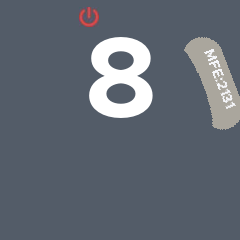
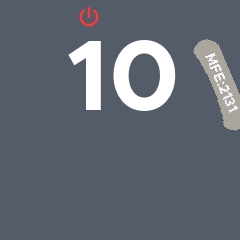
dsa

Changed region(s): [[0.2917, 0.1458, 0.7292, 0.4958], [0.7583, 0.1458, 1.0, 0.5542], [0.9917, 0.3792, 1.0, 0.4083]]

diff --git a/src/st_number.py b/src/st_number.py
@@ -7,19 +7,23 @@ class StationNumber:
     def __init__(self , conf : config.Configuration):
         self.config = conf
         dir = '/home/user-null/Documents/station_lcd/Font'
-        self.font = ImageFont.truetype(f'{dir}/bold.otf' , size=115)
+        self.font_one_digit = ImageFont.truetype(f'{dir}/bold.otf' , size=115)
+        self.font_two_digit = ImageFont.truetype(f'{dir}/bold.otf' , size=100)
     def st_number(self , num , state):
         # i didnt use loops for time complexity
         if 1<= num <= 9:
             self.config.draw.text(
                 (85,25),
                 text=f'{num}',
-                font=self.font,
+                font=self.font_one_digit,
                 fill='#FFFFFF'
             )
-        elif num >= 9:
+        elif 9 < num <= 20:
             self.config.draw.text(
-                
+                (67,30),
+                text=f'{num}',
+                font=self.font_two_digit,
+                fill='#ffffff'
             )
         try:
         #     # img = Image.open(f'template/picture/{num}-solid.jpg').convert("RGB")

diff --git a/src/error.py b/src/error.py
@@ -16,7 +16,7 @@ class Error:
                 [  
                     # first cordinate for move x horizontally and second cordinate use to move rectangle vertically
                    (19 , 130),
-                   (114 , 170)
+                   (114 , 157)
                 ],
 
                 radius=30,
@@ -25,8 +25,8 @@ class Error:
         # using for create indented rounded rectangle
         temp_draw.pieslice(
             [
-                (20,160),
-                (110,180)
+                (20,152),
+                (110,170)
             ],
             start=180,
             end=360,
@@ -39,7 +39,7 @@ class Error:
             font=self.error_font
         )
         print(temp_img.size)
-        rotated_img = temp_img.rotate(-69 , expand=True).convert("RGBA")
+        rotated_img = temp_img.rotate(-67 , expand=True).convert("RGBA")
         y_top = -34
         self.config.image.paste(rotated_img , (170 , y_top) , rotated_img)
         print(rotated_img.size)

diff --git a/main.py b/main.py
@@ -35,7 +35,7 @@ async def main():
         conf.init_display()
 
         back_fround_color.background_color()
-        station_number.st_number(8, 'off')
+        station_number.st_number(10, 'off')
         error_state.error_code()
         power_supply_instance.power_supply()
         status_value.rounded_rectangle('warning')

diff --git a/README.md b/README.md
@@ -2,3 +2,4 @@
 
 UI for Raspberry Pi with GC9A01-based LCD and serial connection to Arduino.
 
+vxvxcvdfsdfsdfsdfsdfsfsdfsdfsdf
